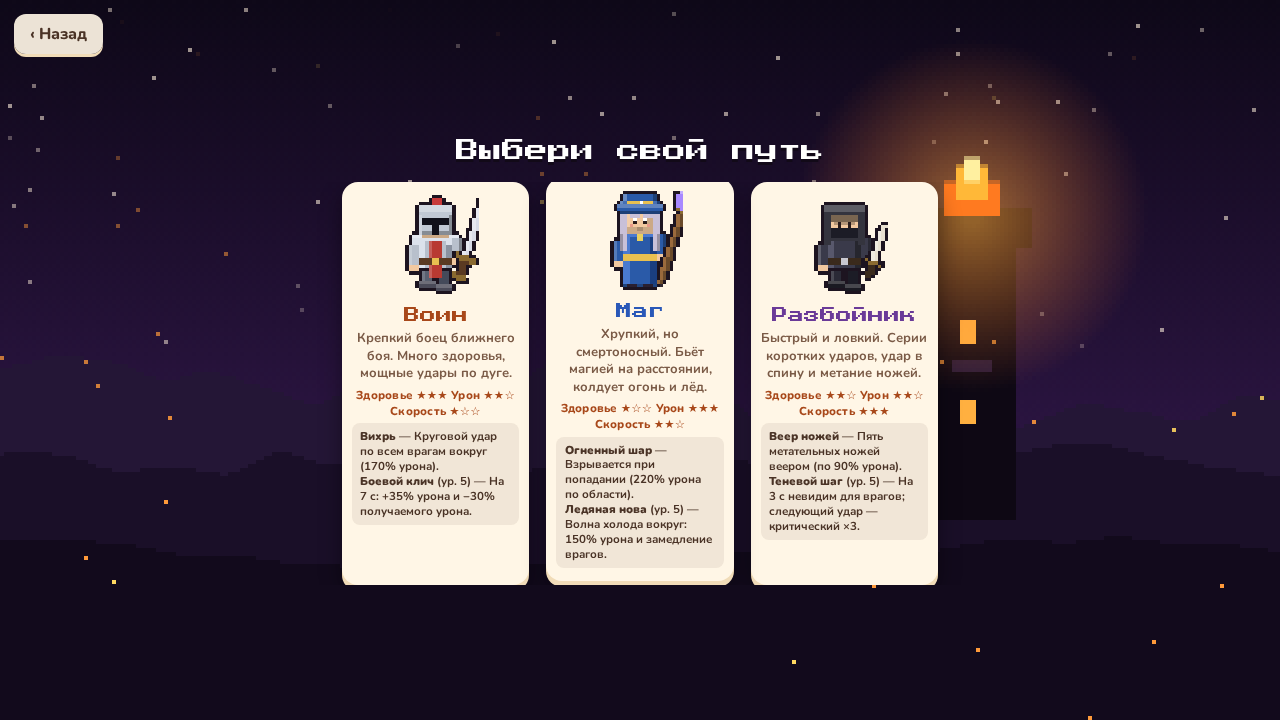
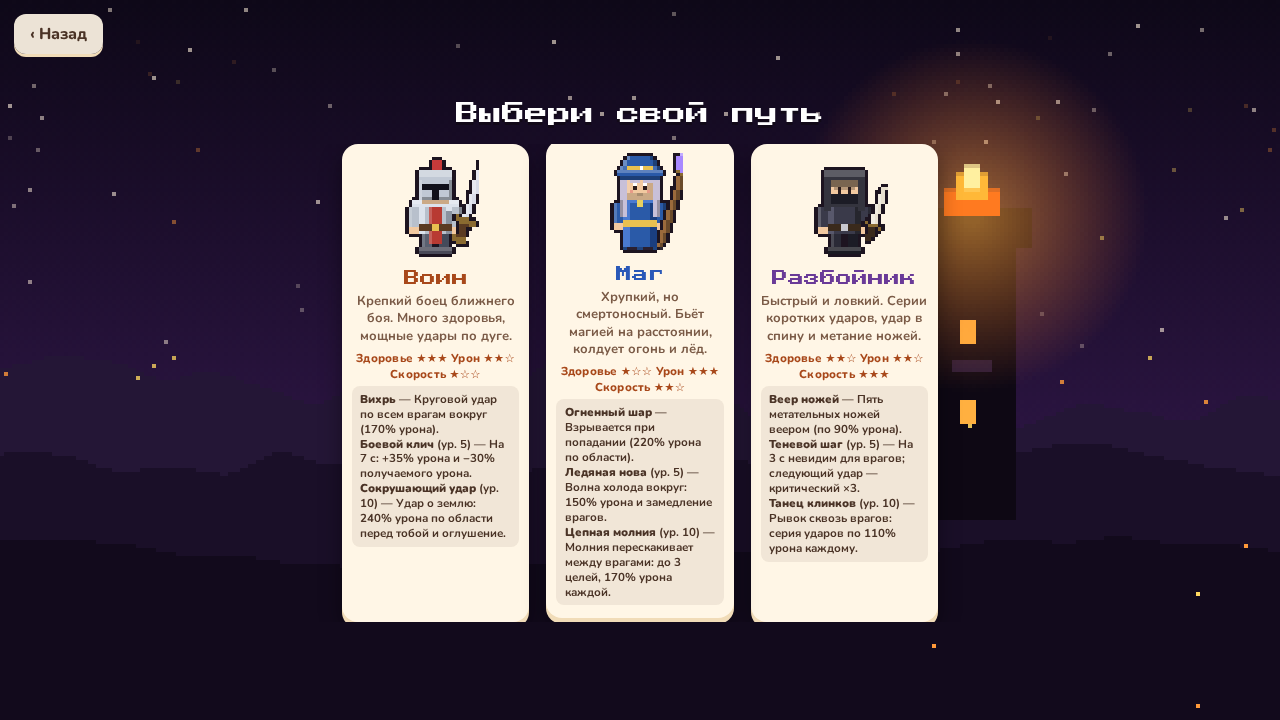
README, скриншоты, ключи эпилога
Claude-Session: https://claude.ai/code/session_01TmgtotfRawb7fYH4VxsTzE

Changed region(s): [[0.25, 0.1222, 0.7812, 0.8861]]

diff --git a/js/endings.js b/js/endings.js
@@ -40,8 +40,8 @@ export const ENDINGS = {
 // короткие строки эпилога по ключевым решениям (только те, что были сделаны)
 const CH = {
   tobias: { cured: 'Тобиас вернулся к Бране. Они редко говорят о шахте.', killed: 'Брана так и не простила шахту. Тебя она вспоминает без злобы, но и без тепла.' },
-  grok: { peace: 'Гоблины ушли с нижнего уровня. Теперь они торгуют на восточной дороге.', lied: 'Гоблины пришли в деревню за обещанным и обнаружили, что их обманули.', fight: 'Грок пал. Его народ до сих пор помнит, чьей рукой.' },
-  miren: { handed: 'Мирена увезли в Каменный Мост. Что с ним, никто не знает.', hidden: 'Мирен остался в приюте. Он часто смотрит на север и ничего не рассказывает.' },
+  grok: { honest: 'Гоблины ушли с нижнего уровня. Теперь они торгуют на восточной дороге.', demanded: 'Гоблины отдали то, что просили, и ушли. Грок ничего не забыл.', lied: 'Гоблины пришли в деревню за обещанным и обнаружили, что их обманули.', fought: 'Грок пал. Его народ до сих пор помнит, чьей рукой.' },
+  seer: { handed: 'Мирена увезли в Каменный Мост. Что с ним, никто не знает.', hidden: 'Мирен остался в приюте. Он часто смотрит на север и ничего не рассказывает.' },
   faction: { council: 'Совет Каменного Моста стоит крепко. Слишком крепко.', collegium: 'Коллегия получила то, что хотела. Исольда стала ректором.', remembering: 'Нэя и её Помнящие собирают то, что осталось от забытого века.' },
   gatekeeper: { rested: 'Привратник Цитадели сложил копьё. Говорят, стража в её коридорах той ночью просто перестала ходить.', stays: 'Эхо-привратник всё ещё стоит у врат Цитадели. Он уверен, что смена продолжается, и никому не мешает.' },
   journal: { given: 'Журнал последней вылазки лёг в архив тех, кто его ждал. Двенадцать имён в нём теперь известны.', kept: 'Журнал последней вылазки остался у тебя. Ты иногда перечитываешь последнюю страницу и не знаешь, зачем.' },

diff --git a/README.md b/README.md
@@ -14,22 +14,22 @@ npm start            # или: python3 -m http.server 8000
 ![Меню](docs/menu.png)
 ![Выбор класса](docs/classes.png)
 ![Тихий Брод](docs/village.png)
-![Шёпотный лес](docs/forest.png)
-![Склеп](docs/crypt.png)
-![Грок, вождь гоблинов](docs/boss.png)
+![Каменный Мост](docs/city_market.png)
+![Долина Былых Сражений](docs/valley_fields.png)
+![Порт Серой Воды](docs/harbor.png)
 
 ## Сюжет
 
-Пламя Эмбера, древняя защита мира, угасает. Маяк Тихого Брода погас, а Скверна, запертая в Цитадели на севере, просачивается наружу. Герой должен:
+Демиург создал мир и богов и замолчал. Между веком героев и нашим временем лежит забытый век: в нём была война, о которой не помнит никто. Нынешние боги были людьми и стали богами, убив прежних или получив силу из их рук. Маяки, поглощавшие лишнюю магию, гаснут; люди превращаются в Эхо; видящим снится война.
 
-1. Осмотреть погасший маяк и выслушать старейшину Орвена.
-2. Добыть **первый осколок Пламени** у Грока, вождя гоблинов.
-3. Отобрать **ключ от склепа** у капитана разбойников Волчьего Глаза.
-4. Пройти **Склеп забытых королей**, открыть рычагами дверь и победить Полого короля ради второго осколка.
-5. Перековать осколки у кузнеца и **зажечь маяк**.
-6. Войти в **Цитадель Скверны** и сразиться со Скверным Владыкой.
+Герой идёт из Тихого Брода через шесть локаций к Цитадели, где умирает Последний Прежний, и решает, чем всё закончится. Подробно: [docs/STORY.md](docs/STORY.md).
 
-Кроме основной цепочки есть шесть побочных заданий: лунные цветы для травницы, шкуры для кузнеца, потерянный амулет, кот Пушок (привет «Шерстинам»), паучий шёлк и страницы летописи в склепе.
+- **Семь богов** следят за каждым решением. Репутация скрыта, ранги можно узнать только у Слушающей в Храме Семи. Проклятие навсегда.
+- **Шесть локаций:** Тихий Брод (деревня, шахта в три этажа, лес, топи), Каменный Мост (город), Долина Былых Сражений, Горный край, Побережье, Цитадель.
+- **Развилки:** судьба Тобиаса и Грока, сторона в споре о маяках, версия войны и кому показать улики, семь квестов богов в духе Даэдра, три классовых квеста.
+- **Четыре финала:** закрыть эпоху, запечатать, освободить, занять Престол (секретный).
+- **Лики** (клавиша `R`): артефакты прежней эпохи, дающие на время силу бога.
+- **Дерево навыков** (клавиша `T`): три ветки на класс, до 20 уровня.
 
 ## Управление
 
@@ -37,7 +37,9 @@ npm start            # или: python3 -m http.server 8000
 |---|---|---|
 | Ходьба | `WASD` или стрелки | плавающий джойстик слева |
 | Атака | `Пробел`, `J` или левая кнопка мыши (целится в курсор) | большая кнопка справа |
-| Навык 1 / 2 | `K` / `L` (или правая кнопка мыши) | кнопки справа |
+| Навыки 1 / 2 / 3 | `K` / `L` / `U` (третий с 10 ур.) | кнопки справа |
+| Лик | `R` | кнопка справа |
+| Дерево навыков | `T` | вкладка «Навыки» |
 | Уклон (перекат, скачок, кувырок) | `Shift` | кнопка справа |
 | Говорить, открыть, потянуть, помолиться | `E` | кнопка «E» появляется рядом с объектом |
 | Зелье здоровья / маны | `1` / `2` | кнопки слева от навыков |
@@ -48,40 +50,35 @@ npm start            # или: python3 -m http.server 8000
 
 ## Классы
 
-| Класс | Стиль | Атака | Навыки | Уклон |
-|---|---|---|---|---|
-| **Воин** | много здоровья, ближний бой | удар мечом по дуге | Вихрь (круговой удар), Боевой клич (с 5 ур.: урон +35%, защита) | перекат |
-| **Маг** | хрупкий, но сильный на расстоянии | магический снаряд | Огненный шар (взрыв по области), Ледяная нова (с 5 ур.: урон и замедление) | скачок-блинк |
-| **Разбойник** | быстрый, критует | серия ударов кинжалом, удар в спину ×1.5 | Веер ножей, Теневой шаг (с 5 ур.: невидимость и крит ×3) | кувырок |
+| Класс | Стиль | Навыки (1 / 5 / 10 ур.) | Уклон |
+|---|---|---|---|
+| **Воин** | много здоровья, ближний бой | Вихрь, Боевой клич, Сокрушающий удар | перекат |
+| **Маг** | хрупкий, сильный на расстоянии | Огненный шар, Ледяная нова, Цепная молния | скачок-блинк |
+| **Разбойник** | быстрый, критует | Веер ножей, Теневой шаг, Танец клинков | кувырок |
 
-Прокачка идёт до 15 уровня. Снаряжение: оружие, броня и амулет. Оружие и броня привязаны к классу (5 ступеней оружия, 4 ступени брони), меняют внешний вид героя. Последняя ступень оружия куётся из осколков Пламени.
+Уровень до 20. Очко навыков за каждый уровень и за важные задания; в дереве три ветки на класс с пассивками и улучшениями активных навыков. Снаряжение: оружие, броня, амулет и Лик.
 
 ## Мир
 
-| Область | Что там |
-|---|---|
-| **Тихий Брод** | деревня: старейшина, кузнец, торговка, трактирщик, травница, стражник, алтарь Огня, маяк, луг со слизнями |
-| **Шёпотный лес** | волки, пауки, разбойники, гоблины; озеро с островом, лагеря Грока и Волчьего Глаза, святилище, врата склепа |
-| **Склеп забытых королей** | скелеты, летучие мыши, призраки; два рычага открывают дверь к Полому королю |
-| **Цитадель Скверны** | воины и плевуны Скверны, лавовые рвы; последний босс |
-
-**Алтари** лечат, восстанавливают ману и сохраняют прогресс. При гибели герой просыпается у последнего алтаря и теряет 10% золота. Боссы телеграфируют атаки красными зонами: учись уклоняться.
+Шесть локаций, 29 областей (см. `AREAS` в `js/defs.js`). Алтари лечат и сохраняют прогресс. При гибели герой просыпается у последнего алтаря и теряет 10% золота. Боссы телеграфируют атаки красными зонами.
 
 ## Устройство кода
 
 ```
 index.html, css/         интерфейс (DOM поверх canvas)
 js/defs.js               константы, классы, предметы, враги
-js/maps.js               карты областей (генерация с фиксированным seed)
+js/maps*.js, areas_l1-6.js   карты областей (генерация с фиксированным seed)
 js/state.js              состояние героя, характеристики, инвентарь
-js/quests.js             квесты, NPC, диалоги (данные + движок)
+js/quests.js, story_*.js  движок квестов; NPC, квесты и диалоги по локациям
+js/gods.js, skills.js    репутация богов, дерево навыков
+js/endings.js            финалы и эпилог
 js/world.js, ai.js       игровая логика: бой, ИИ врагов и боссов, лут (без DOM)
 js/sprites_*.js, px.js   весь пиксель-арт рисуется кодом
 js/render.js             камера, слои, частицы, освещение подземелий
 js/ui.js, input.js       HUD, диалоги, сумка/журнал/магазин, джойстик
 js/audio.js              музыка и звуки синтезируются в Web Audio
 js/save.js               сохранения в localStorage
-tests/                   проверки данных и бот-тестировщик
+tests/                   проверки данных, систем и мира
 tools/                   скриншоты и вспомогательные страницы (Playwright)
 ```
 
@@ -90,14 +87,13 @@ tools/                   скриншоты и вспомогательные с
 ## Тесты
 
 ```bash
-npm test             # данные карт и квестов + смоук + бот проходит игру воином
-npm run test:all     # то же для всех трёх классов
-node tests/ascii.mjs forest   # нарисовать карту текстом
+npm test             # данные + системы + смоук
+node tests/ascii.mjs village   # нарисовать карту текстом
 ```
 
-- `tests/validate.mjs` проверяет, что все NPC, враги, сундуки, порталы и рычаги достижимы, что квесты ссылаются на существующие предметы и что для каждой цели есть источник.
-- `tests/smoke.mjs` прогоняет мир минуту игрового времени для каждого класса.
-- `tests/bot.mjs` проходит всю игру через настоящую логику: ходит по картам (A\*), выполняет задания, покупает снаряжение, побеждает четырёх боссов.
+- `tests/validate.mjs`: достижимость всех объектов на картах, ссылки диалоговых узлов и эффектов, квесты и источники предметов.
+- `tests/systems.mjs`: репутация и проклятия, дерево навыков, сквозной прогон диалогов Локации 1.
+- `tests/smoke.mjs`: минута игрового времени для каждого класса.
 
 ## Публикация
 
